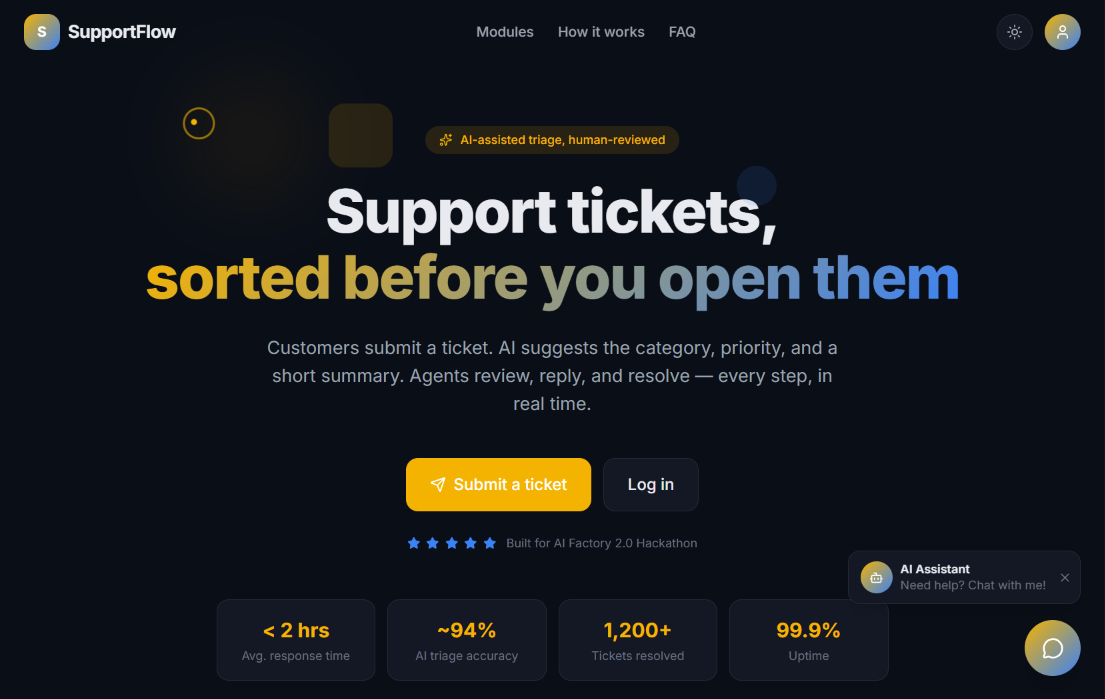
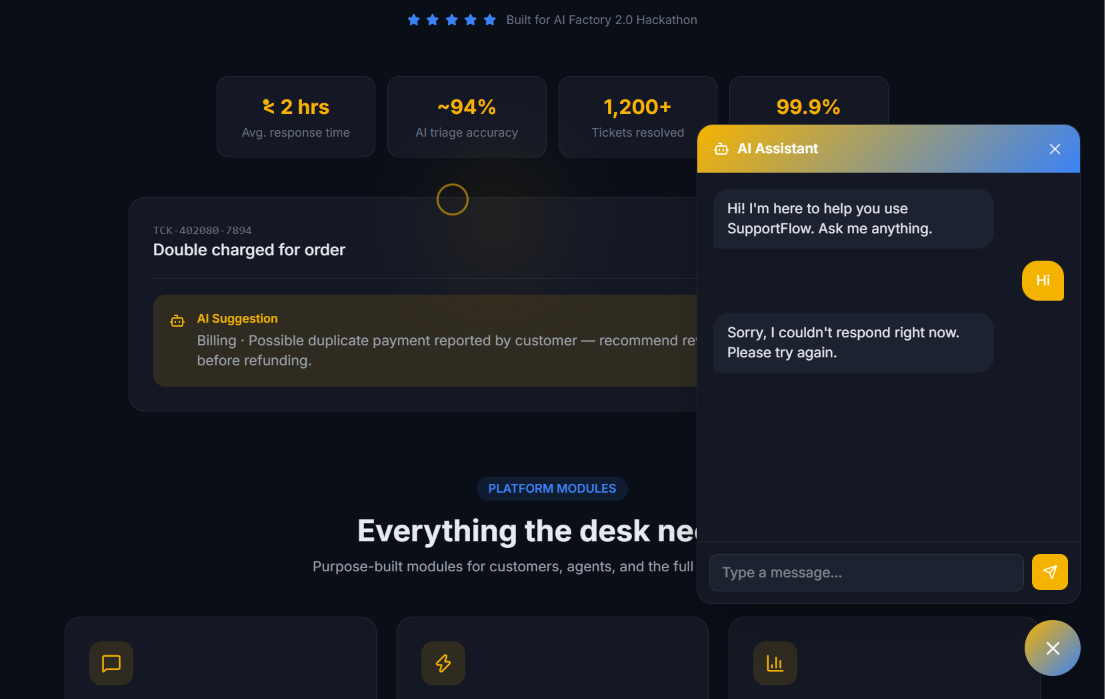
add projects

diff --git a/src/components/Projects.jsx b/src/components/Projects.jsx
@@ -19,7 +19,7 @@ const projects = [
   {
     number: "02",
     title: "Interview IQ",
-    image: "/projects/interviewiq.png",
+    image: "/projects/InterviewIQ.png",
     category: "AI-Powered Interview Platform",
     description:
       "A production-ready AI-powered interview platform designed for anyone preparing for interviews. The application combines a full-stack backend with AI-based interview evaluation and automated email workflows using n8n, delivering an end-to-end interview practice experience.",
@@ -53,7 +53,7 @@ const projects = [
 {
   number: "04",
   title: "Multi-Vendor E-Commerce",
-  image: "/projects/multivendor-ecommerce.png",
+  image: "/projects/multi-vendor.png",
   category: "Frontend Web Development",
   description:
     "A responsive multi-vendor e-commerce website built with HTML, CSS, and JavaScript. The project focuses on creating a structured online shopping experience with product browsing, vendor-focused content, and interactive frontend functionality.",
@@ -72,7 +72,7 @@ function Projects() {
   return (
     <section
       id="projects"
-      className="border-t border-cream/[0.06] px-5 py-20 sm:px-6 md:px-10 md:py-24 lg:py-32"
+      className="border-t border-cream/6 px-5 py-20 sm:px-6 md:px-10 md:py-24 lg:py-32"
     >
       <div className="mx-auto max-w-7xl">
 
@@ -104,7 +104,7 @@ function Projects() {
           {projects.map((project, index) => (
             <article
               key={project.number}
-              className={`group overflow-hidden rounded-2xl border border-cream/[0.07] bg-cream/[0.025] transition-all duration-300 hover:-translate-y-1 hover:border-dusty/40 ${
+              className={`group overflow-hidden rounded-2xl border border-cream/[0.07] bg-cream/2.5 transition-all duration-300 hover:-translate-y-1 hover:border-dusty/40 ${
                 index === 0 ? "md:col-span-2" : ""
               }`}
             >
